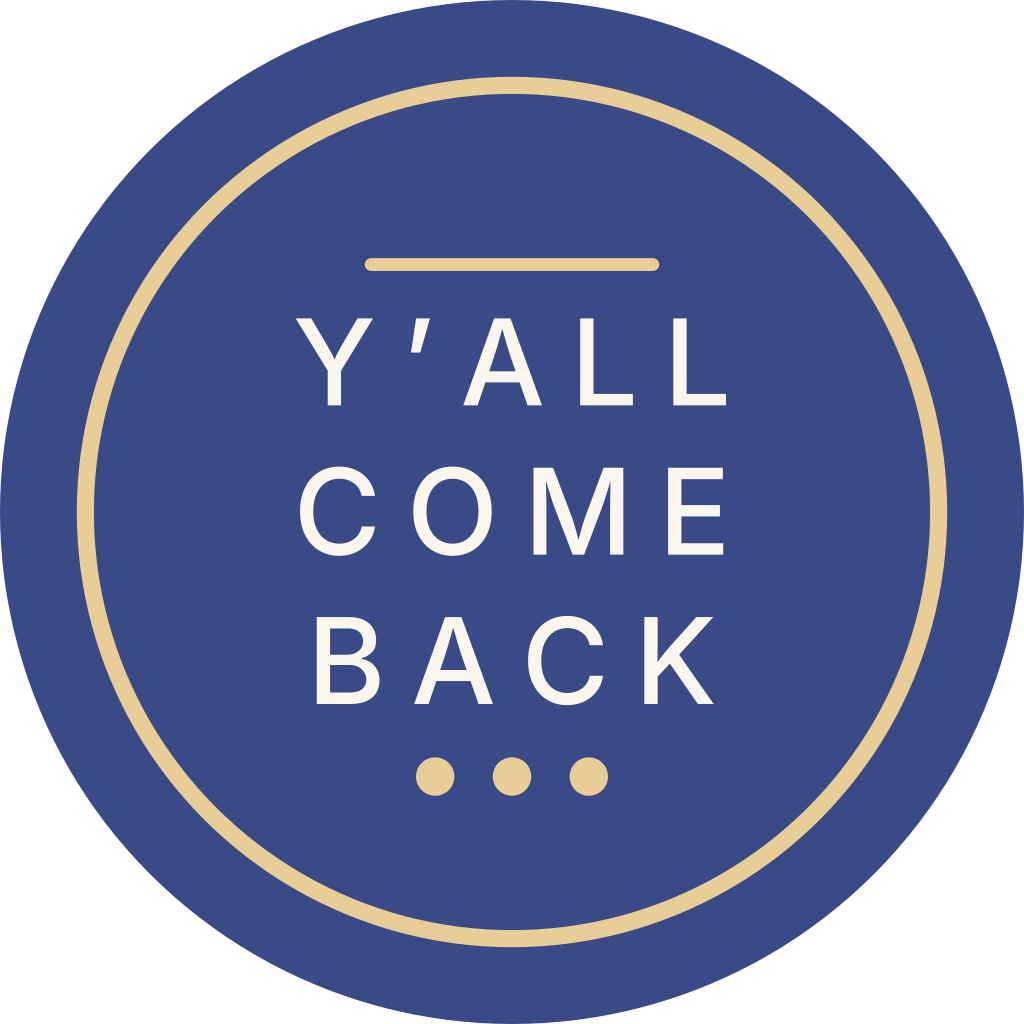
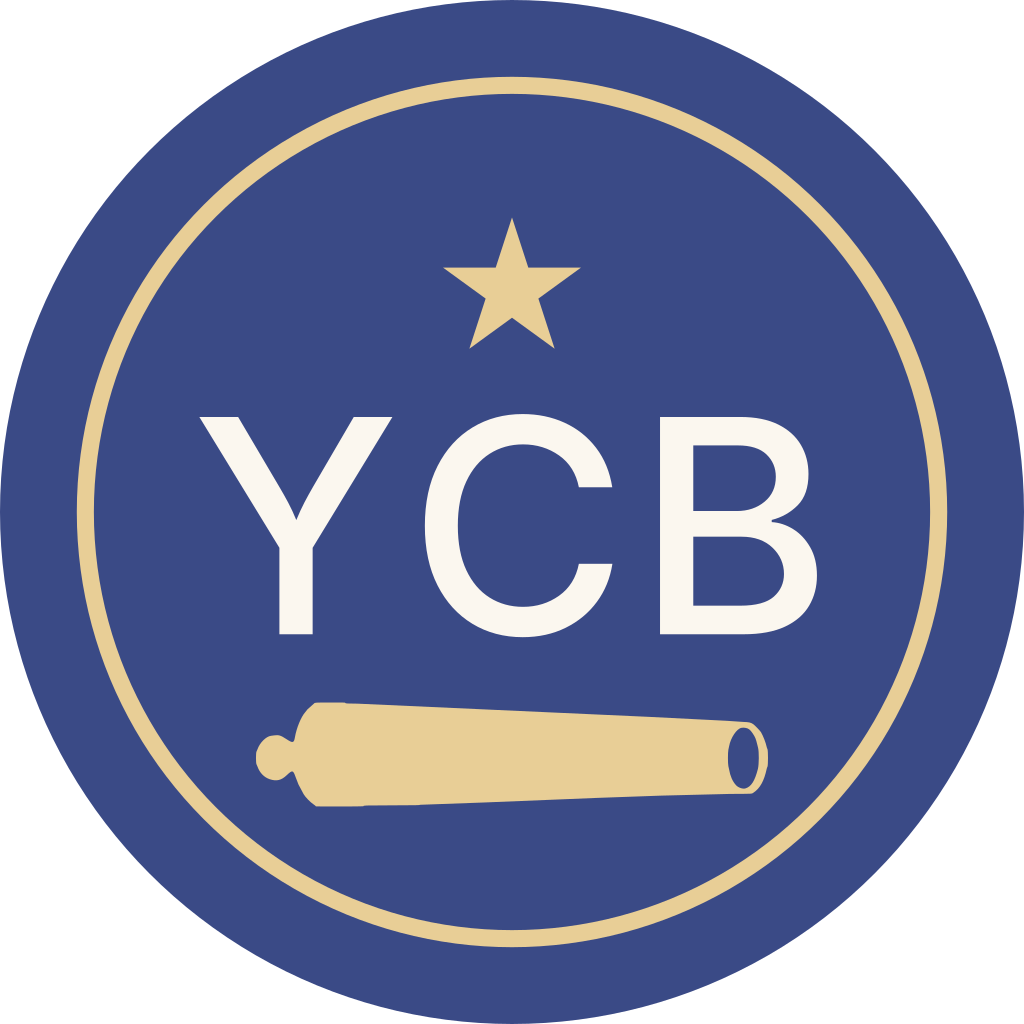
Use YCB monogram in header and phrase seal in footer
Install new brand assets: compact YCB for top chrome, “yall come back”
phrase seal larger in the footer. Refresh favicon and apple-touch icon.

Changed region(s): [[0.1875, 0.2188, 0.8125, 0.8125]]

diff --git a/src/components/brand-logo.tsx b/src/components/brand-logo.tsx
@@ -2,7 +2,7 @@ import Image from "next/image";
 import Link from "next/link";
 import { cn } from "@/lib/utils";
 
-/** Official seal mark from brand kit. */
+/** Compact YCB monogram seal — for header / tight chrome. */
 export function BrandMark({
   className,
   size = 48,
@@ -30,7 +30,7 @@ export function BrandMark({
 }
 
 /**
- * Header lockup: large seal + readable wordmark in honey quotes.
+ * Header mark: compact YCB seal only (phrase lives in the footer).
  */
 export function BrandLogo({
   className,
@@ -43,30 +43,21 @@ export function BrandLogo({
     <Link
       href={href}
       className={cn(
-        "ycb-logo group inline-flex min-w-0 items-center gap-3",
+        "group inline-flex shrink-0 items-center",
         className,
       )}
       aria-label="yall come back, home"
     >
       <BrandMark
-        size={80}
+        size={72}
         priority
-        className="h-11 w-11 sm:h-14 sm:w-14 md:h-[4.5rem] md:w-[4.5rem]"
+        className="h-10 w-10 sm:h-12 sm:w-12 md:h-14 md:w-14"
       />
-      <span className="hidden min-w-0 items-baseline sm:inline-flex">
-        <span className="ycb-logo__quote" aria-hidden>
-          &ldquo;
-        </span>
-        <span className="truncate">yall come back</span>
-        <span className="ycb-logo__quote" aria-hidden>
-          &rdquo;
-        </span>
-      </span>
     </Link>
   );
 }
 
-/** Full-color seal for trust spots (checkout, print, about, footer). */
+/** Full-color compact seal (checkout, about, magnets). */
 export function BrandSeal({
   className,
   size = 120,
@@ -77,6 +68,34 @@ export function BrandSeal({
   mono?: boolean;
 }) {
   const src = mono ? "/brand/ycb-seal-mono.svg" : "/brand/ycb-seal.svg";
+  return (
+    <Image
+      src={src}
+      alt="Yall Come Back"
+      width={size}
+      height={size}
+      className={cn("shrink-0", className)}
+      unoptimized
+    />
+  );
+}
+
+/**
+ * Phrase seal (“yall come back” in the mark) — footer / large brand moments.
+ * Prefer mono on bonnet backgrounds so gold/cream reads correctly.
+ */
+export function BrandPhraseSeal({
+  className,
+  size = 200,
+  mono = false,
+}: {
+  className?: string;
+  size?: number;
+  mono?: boolean;
+}) {
+  const src = mono
+    ? "/brand/ycb-seal-phrase-mono.svg"
+    : "/brand/ycb-seal-phrase.svg";
   return (
     <Image
       src={src}

diff --git a/src/components/site-footer.tsx b/src/components/site-footer.tsx
@@ -1,15 +1,15 @@
 import Link from "next/link";
-import { BrandSeal } from "@/components/brand-logo";
+import { BrandPhraseSeal } from "@/components/brand-logo";
 
 export function SiteFooter() {
   return (
     <footer className="mt-auto border-t border-hairline bg-bonnet pb-[env(safe-area-inset-bottom,0px)] text-buttermilk/90">
       <div className="mx-auto grid max-w-6xl gap-8 px-4 py-10 sm:grid-cols-2 sm:gap-10 sm:px-6 sm:py-14 md:grid-cols-3">
-        <div className="flex items-center gap-3 sm:col-span-2 sm:gap-5 md:col-span-1">
-          {/* Full-color seal: mono is bonnet-on-bonnet and invisible on this footer */}
-          <BrandSeal
-            size={160}
-            className="h-16 w-16 shrink-0 sm:h-24 sm:w-24 md:h-28 md:w-28"
+        <div className="flex flex-col items-start gap-4 sm:col-span-2 sm:flex-row sm:items-center sm:gap-6 md:col-span-1">
+          {/* Phrase seal includes “yall come back” — larger in the footer */}
+          <BrandPhraseSeal
+            size={280}
+            className="h-28 w-28 shrink-0 sm:h-36 sm:w-36 md:h-40 md:w-40"
           />
           <div className="min-w-0">
             <p className="font-display text-xl font-medium tracking-tight text-buttermilk sm:text-2xl">
